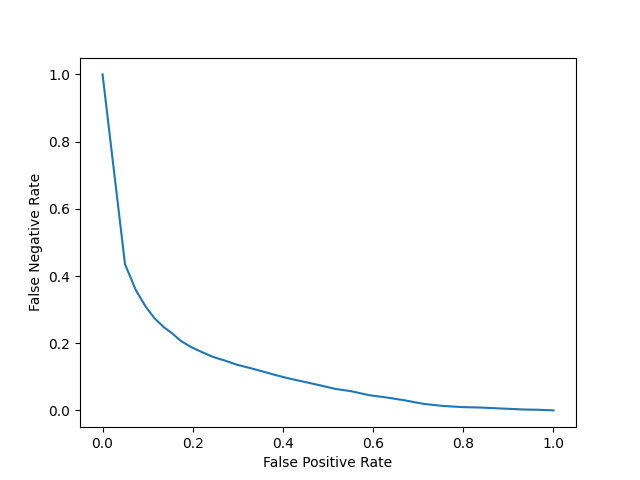
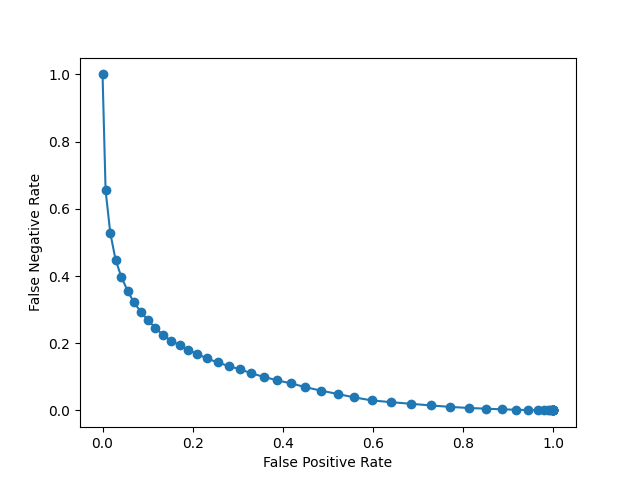
Fixed pre-processing of omniglot data

Changed region(s): [[0.1562, 0.125, 0.875, 0.875]]

diff --git a/mnist.py b/mnist.py
@@ -9,6 +9,7 @@ from sklearn.metrics import confusion_matrix
 import seaborn
 import tensorflow_datasets as tfds
 from tensorflow.python.ops.numpy_ops import np_config
+from scipy.ndimage.filters import gaussian_filter
 np_config.enable_numpy_behavior()
 
 
@@ -72,15 +73,20 @@ omniglot_y = omniglot_train_y + omniglot_test_y
 # Pre-process omniglot images
 '''
 resize to 28x28 (same size as mnist images)
-make grayscale
+make make values be between 0 and 1 just like mnist was normalized
 flip pixels so that it's black background, white foreground
+add a little bit of gaussian filter to blur it
 '''
-omniglot_x = [(1.0 - tf.image.resize(tf.image.rgb_to_grayscale(i), [28, 28]))[:, :, 0] for i in omniglot_x]
-
+omniglot_x = [(gaussian_filter(1.0 - (tf.image.resize(i, [28, 28])/255.0), sigma=0.5))[:, :, 0] for i in omniglot_x]
 
 # Change labels of unkown classes to be negative numbers
 for i in range(len(omniglot_y)):
-    omniglot_y[i] = -omniglot_y[i] -1
+    omniglot_y[i] = -1
+
+
+
+
+
 
 
 
@@ -115,31 +121,19 @@ test_y = np.concatenate((test_y, omniglot_y), axis=0)
 
 
 
-
-
-
-
-
-
-
-
-
-
 print("\nTraining model")
 model = keras.Sequential()
-model.add(Conv2D(filters=16, kernel_size=(3, 3), padding='same', activation='relu', input_shape=(train_x[0].shape[0], train_x[0].shape[1], 1)))
-model.add(MaxPooling2D(pool_size=(2, 2)))
-model.add(Flatten())
-model.add(Dense(64, activation=tf.nn.relu))
-model.add(Dense(64, activation=tf.nn.relu))
-model.add(Dense(10, activation=tf.nn.softmax))
-model.compile(optimizer=SGD(lr=0.01, momentum=0.9), loss='sparse_categorical_crossentropy', metrics=['accuracy'])
-model.fit(train_x, train_y, epochs=10, batch_size=64)
+model.add(keras.layers.Conv2D(filters=4, kernel_size=(3, 3), padding='same', activation='relu', input_shape=(train_x[0].shape[0], train_x[0].shape[1], 1)))
+model.add(keras.layers.MaxPooling2D(pool_size=(2, 2)))
+model.add(keras.layers.Flatten(input_shape=(28, 28)))
+model.add(keras.layers.Dense(32, activation=tf.nn.relu))
+model.add(keras.layers.Dense(10, activation=tf.nn.softmax))
+model.compile(optimizer='adam', loss='sparse_categorical_crossentropy', metrics=['accuracy'])
+model.fit(train_x, train_y, epochs=5)
 
 
 
 
-exit()
 
 
 
@@ -269,7 +263,7 @@ plt.ylabel('True Positive Rate')
 plt.savefig('./plots/mnist/roc.png')
 
 plt.clf()
-plt.plot(fpr_list, fnr_list)
+plt.plot(fpr_list, fnr_list, '-o')
 plt.axis([-0.05, 1.05, -0.05, 1.05])
 plt.xlabel('False Positive Rate')
 plt.ylabel('False Negative Rate')
